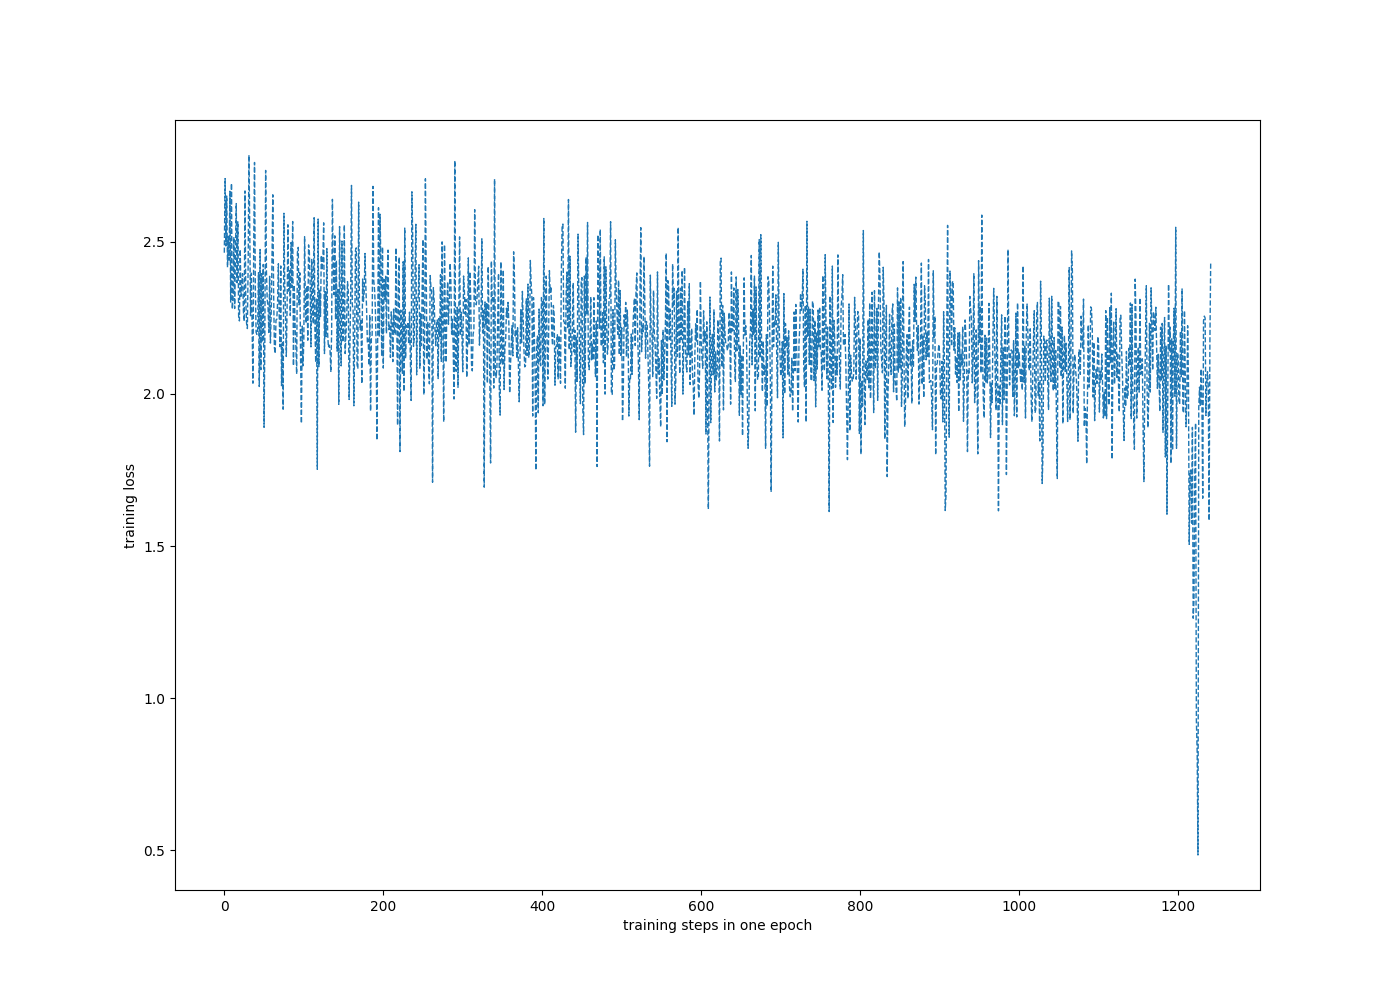
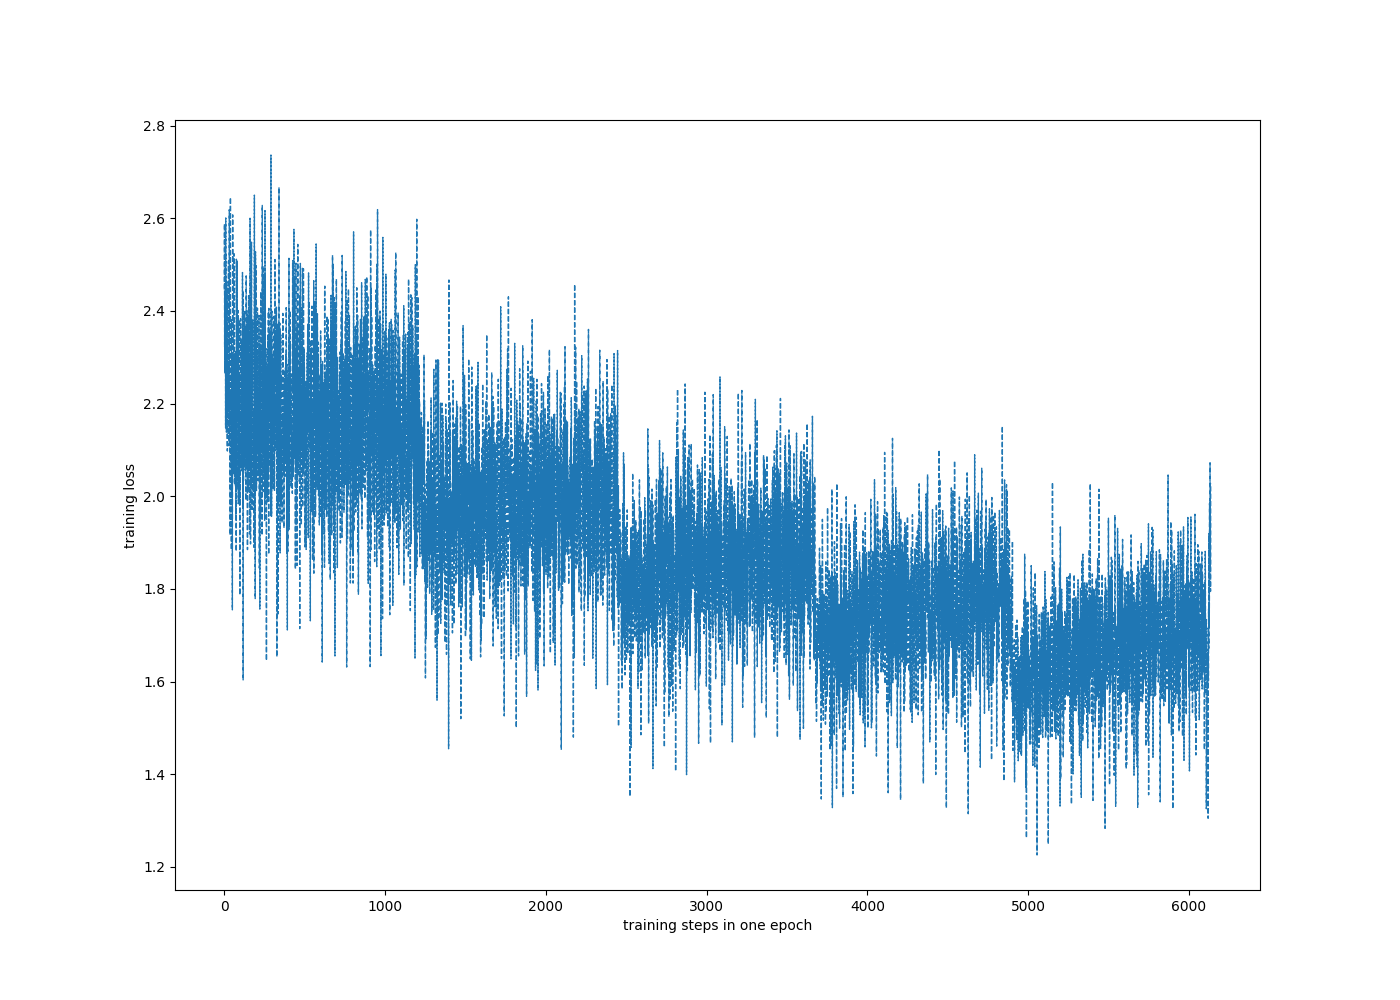
updates, for some data loading issues

diff --git a/examples/transformer/transformer_overall.py b/examples/transformer/transformer_overall.py
@@ -291,10 +291,11 @@ if __name__ == "__main__":
         lowest_loss, lowest_epoch = -1, -1
         if args.running_mode == 'train_and_evaluate':
             for epoch in range(args.max_train_epoch):
+                if epoch % args.eval_interval_epoch != 0:
+                    continue
                 status = _train_epochs(sess, epoch, writer)
                 eval_saver.save(sess, args.log_dir+'my-model.epoch{}'.format(epoch))
-                if (epoch+1) % args.eval_interval == 0:
-                    eval_result = _eval_epoch(sess, epoch, eval_writer)
+                eval_result = _eval_epoch(sess, epoch, eval_writer)
                 #eval_loss, eval_score = eval_result['loss'], eval_result['bleu']
                 #if lowest_loss < 0 or eval_loss < lowest_loss:
                 #    logging.info('the {} epoch(0-idx) got lowest loss'.format(epoch))

diff --git a/examples/transformer/hyperparams.py b/examples/transformer/hyperparams.py
@@ -53,7 +53,7 @@ argparser.add_argument('--alpha', type=float, default=0.6,\
     help=' length_penalty=(5+len(decode)/6) ^ -\alpha')
 argparser.add_argument('--save_eval_output', default=1, \
     help='save the eval output to file')
-argparser.add_argument('--eval_interval', default=5)
+argparser.add_argument('--eval_interval_epoch', default=5)
 argparser.add_argument('--load_from_pytorch', type=str, default='')
 
 argparser.parse_args(namespace=args)
@@ -86,7 +86,7 @@ batching_scheme['boundaries'] = [b + 1 for b in batching_scheme['boundaries']]
 print('train_src:{}'.format(args.train_src))
 print('dev src:{}'.format(args.dev_src))
 train_dataset_hparams = {
-    "num_epochs": args.num_epochs,
+    "num_epochs": args.eval_interval_epoch,
     #"num_epochs": args.max_train_epoch,
     "seed": args.random_seed,
     "shuffle": True,
